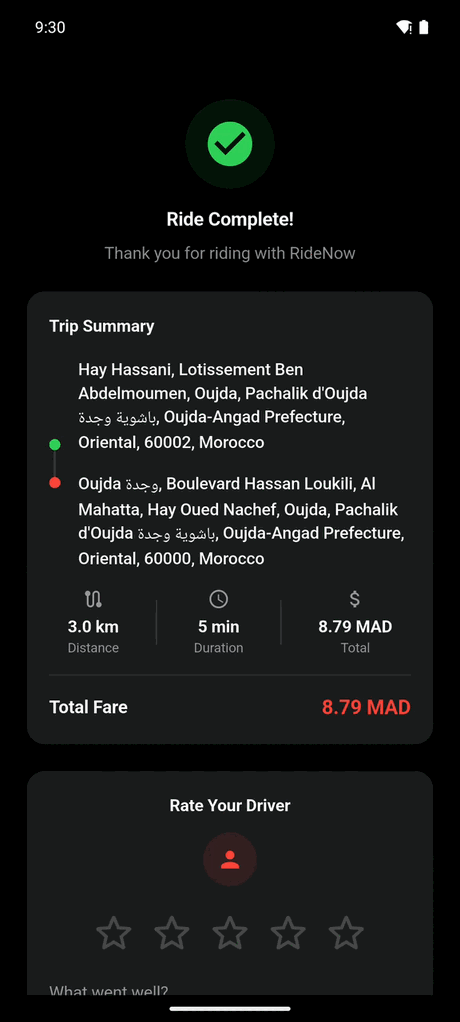
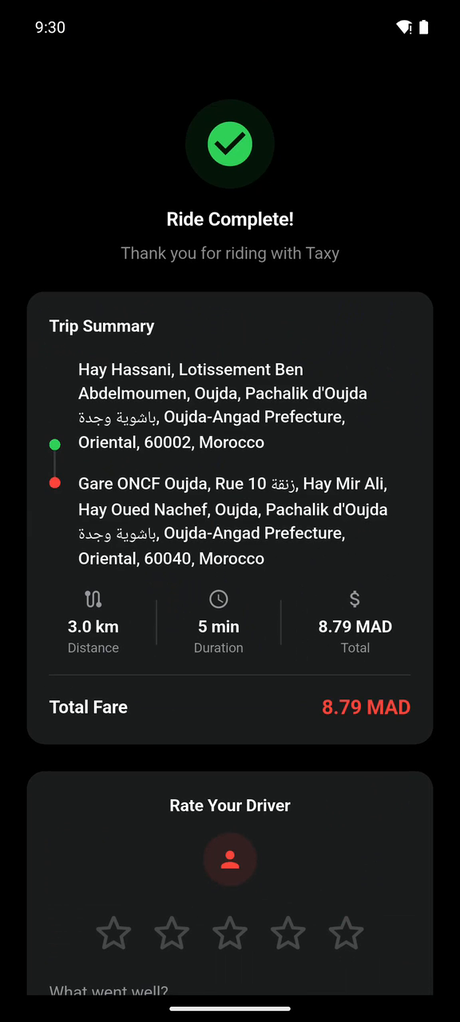
Make the account screens readable, and current
Six phone screenshots across a 600px column left each one about 90px
wide — narrower than the text inside it. They were unreadable at any
distance, nothing said they could be opened, and they could not be:
the strip was six plain <img> tags. Three up over two rows doubles each
to 190px, which is where the headings become legible without clicking,
and every screen now opens full size in the existing modal with arrow
keys, a counter and a caption. Focus returns to the thumbnail that
opened it. Still a grid rather than a scroller, so driver registration
stays on screen instead of behind a sideways drag.

Worth opening now, too. The published images were from before the
rename: the driver form said "start driving with RideNow", the trip
summary in the auto-advancing carousel said "Thank you for riding with
RideNow", and the sign-up phone field hinted +20 — Egypt's dial code —
in a section headed "Ride-hailing built for Morocco". The account
screens were also the only light-appearance shots in an otherwise dark
set. Recaptured from the current build.

The captions claimed fares and distances the screenshots beside them
contradicted: 8.41 and 15.32 MAD against 8.79 and 16.07, 2.9 km against
3.5, a 25-second countdown against 21. Corrected to what is on screen.

Changed region(s): [[0.1522, 0.455, 0.8826, 0.546], [0.2435, 0.2427, 0.7609, 0.273]]

diff --git a/src/components/TaxyExtras.tsx b/src/components/TaxyExtras.tsx
@@ -1,39 +1,60 @@
 "use client";
 
-import { useState } from "react";
+import { useCallback, useEffect, useState } from "react";
 import ModalShell from "./ModalShell";
 
+interface Screen {
+  src: string;
+  alt: string;
+  /** Short label under the thumbnail. */
+  label: string;
+  /** One line shown beside the screen once it is open. */
+  caption: string;
+}
+
 /** Account creation and driver onboarding, shown as a still strip. */
-const SETUP = [
+const SETUP: Screen[] = [
   {
     src: "/products/taxy-acc-signin.png",
-    alt: "Taxy sign-in screen asking for phone number and password",
+    alt: "Taxy sign-in screen asking for a phone number and password",
     label: "Sign in",
+    caption:
+      "Returning riders sign in with their phone number and password — no email required.",
   },
   {
     src: "/products/taxy-acc-phone.png",
-    alt: "Taxy sign-up step one, asking for a phone number",
+    alt: "Taxy sign-up step one, with a +212 Moroccan phone number entered",
     label: "Phone",
+    caption:
+      "Sign-up opens on a Moroccan number — +212, hinted and validated. Step 1 of 6.",
   },
   {
     src: "/products/taxy-acc-terms.png",
-    alt: "Taxy sign-up step five, terms of service and privacy consent",
+    alt: "Taxy sign-up step five, terms of service and privacy consent accepted",
     label: "Consent",
+    caption:
+      "Terms of service and privacy consent, before anything is created. Step 5 of 6.",
   },
   {
     src: "/products/taxy-acc-verify.png",
-    alt: "Taxy sign-up step six, SMS verification code entry",
+    alt: "Taxy sign-up step six, six-digit SMS verification code entry with a resend timer",
     label: "SMS code",
+    caption:
+      "A six-digit code goes to that number, with a resend timer. Step 6 of 6.",
   },
   {
     src: "/products/taxy-acc-menu.png",
-    alt: "Taxy account menu with profile, ride history, payment methods, wallet and switch to driver mode",
+    alt: "Taxy account menu with profile, ride history, payment methods, wallet, settings and switch to driver mode",
     label: "Account",
+    caption:
+      "Profile, ride history, payment methods, wallet, settings — and the switch to driver mode.",
   },
   {
     src: "/products/taxy-acc-driver.png",
-    alt: "Taxy 'Become a Driver' registration form: licence number, documents and background-check consent",
+    alt: "Taxy 'Become a Driver' registration form: licence number and expiry, document uploads and background-check consent",
     label: "Become a driver",
+    caption:
+      "Driver onboarding: licence and expiry, licence and insurance uploads, background-check consent.",
   },
 ];
 
@@ -43,11 +64,51 @@ const SETUP = [
  * or driver — is created in the first place.
  *
  * The setup screens stay out of the rotation on purpose. That rotation tells
- * one story, a ride from request to completion, and eleven auto-advancing
+ * one story, a ride from request to completion, and twelve auto-advancing
  * steps would bury it.
  */
 export default function TaxyExtras() {
   const [videoOpen, setVideoOpen] = useState(false);
+  // Which setup screen is open full size, or null for none.
+  const [shot, setShot] = useState<number | null>(null);
+
+  const step = useCallback(
+    (delta: number) =>
+      setShot((i) =>
+        i === null ? i : (i + delta + SETUP.length) % SETUP.length,
+      ),
+    [],
+  );
+
+  // Arrow keys walk the set. Escape and the backdrop are ModalShell's job.
+  useEffect(() => {
+    if (shot === null) return;
+    const onKey = (e: KeyboardEvent) => {
+      if (e.key === "ArrowRight") {
+        e.preventDefault();
+        step(1);
+      } else if (e.key === "ArrowLeft") {
+        e.preventDefault();
+        step(-1);
+      }
+    };
+    document.addEventListener("keydown", onKey);
+    return () => document.removeEventListener("keydown", onKey);
+  }, [shot, step]);
+
+  // Hand the caret back to the thumbnail that opened the viewer, so tabbing
+  // carries on from where it was rather than restarting at the top of the page.
+  const closeShot = useCallback(() => {
+    const open = shot;
+    setShot(null);
+    if (open !== null) {
+      requestAnimationFrame(() =>
+        document.getElementById(`taxy-setup-${open}`)?.focus(),
+      );
+    }
+  }, [shot]);
+
+  const active = shot === null ? null : SETUP[shot];
 
   return (
     <div className="mt-6 space-y-7">
@@ -78,26 +139,67 @@ export default function TaxyExtras() {
       </button>
 
       <div>
-        <p className="font-mono text-[0.68rem] tracking-[0.18em] text-foreground/35 uppercase">
-          Getting an account — rider or driver
-        </p>
-        {/* A grid, not a scroller: the last screen is driver registration and
-            it has to be on screen without anyone dragging sideways to find
-            it. Three up on a phone, all six once the column is wide. */}
-        <ul className="mt-3 grid grid-cols-3 gap-3 sm:grid-cols-6 sm:gap-2">
-          {SETUP.map((shot) => (
-            <li key={shot.src}>
-              <div className="overflow-hidden rounded-xl border border-card-border bg-card-bg transition-colors duration-300 hover:border-accent/35">
+        <div className="flex flex-col gap-0.5 sm:flex-row sm:items-baseline sm:justify-between sm:gap-4">
+          <p className="font-mono text-[0.68rem] tracking-[0.18em] text-foreground/35 uppercase">
+            Getting an account — rider or driver
+          </p>
+          <p className="shrink-0 text-[0.68rem] text-foreground/30">
+            Tap to enlarge
+          </p>
+        </div>
+
+        {/* Three up, two rows — six across the column made every screen about
+            90px wide, which is narrower than the phone's own text. Three is
+            the point where the headings become readable without opening
+            anything, and a grid keeps driver registration on screen instead
+            of behind a sideways drag. */}
+        <ul className="mt-3 grid grid-cols-3 gap-3 sm:gap-4">
+          {SETUP.map((screen, i) => (
+            <li key={screen.src}>
+              <button
+                id={`taxy-setup-${i}`}
+                type="button"
+                onClick={() => setShot(i)}
+                /* The button's label wins over the image's alt inside it,
+                   so it has to carry the description as well as the verb. */
+                aria-label={`${screen.alt} — enlarge`}
+                className="group/shot relative block w-full cursor-zoom-in overflow-hidden rounded-xl border border-card-border bg-card-bg transition-all duration-300 hover:border-accent/40 hover:shadow-[0_0_24px_rgba(86,172,49,0.07)] focus-visible:border-accent/60 focus-visible:outline-none"
+              >
                 {/* eslint-disable-next-line @next/next/no-img-element */}
                 <img
-                  src={shot.src}
-                  alt={shot.alt}
+                  src={screen.src}
+                  alt={screen.alt}
                   loading="lazy"
+                  decoding="async"
                   className="h-auto w-full"
                 />
-              </div>
-              <p className="mt-1.5 text-center text-[0.65rem] leading-snug text-foreground/40">
-                {shot.label}
+                {/* Zoom affordance — the thumbnails look like decoration
+                    otherwise, and nobody clicks decoration. */}
+                <span
+                  aria-hidden="true"
+                  className="pointer-events-none absolute inset-0 grid place-items-center bg-background/55 opacity-0 backdrop-blur-[1px] transition-opacity duration-300 group-hover/shot:opacity-100 group-focus-visible/shot:opacity-100"
+                >
+                  <span className="grid h-8 w-8 place-items-center rounded-full border border-accent/40 bg-background/80 text-accent">
+                    <svg
+                      width="14"
+                      height="14"
+                      viewBox="0 0 24 24"
+                      fill="none"
+                      stroke="currentColor"
+                      strokeWidth="2"
+                      strokeLinecap="round"
+                      strokeLinejoin="round"
+                    >
+                      <circle cx="11" cy="11" r="7" />
+                      <line x1="16.5" y1="16.5" x2="21" y2="21" />
+                      <line x1="11" y1="8" x2="11" y2="14" />
+                      <line x1="8" y1="11" x2="14" y2="11" />
+                    </svg>
+                  </span>
+                </span>
+              </button>
+              <p className="mt-2 text-center text-[0.7rem] leading-snug text-foreground/55">
+                {screen.label}
               </p>
             </li>
           ))}
@@ -128,6 +230,66 @@ export default function TaxyExtras() {
           pickup, trip, completion. The maps are vector tiles and the routes
           come from OSRM, both served from the same machine as the backend.
         </p>
+      </ModalShell>
+
+      {/* One screen, full size, with the rest a keypress away. */}
+      <ModalShell
+        open={active !== null}
+        onClose={closeShot}
+        label="Taxy account setup screens"
+        /* Hug the screen rather than box it: the image is capped at 68vh, so
+           on a short window a fixed-width panel leaves a wide black margin
+           either side of a narrow phone. 0.45 is the screenshots' aspect. */
+        panelClassName="max-w-[min(24rem,calc(68vh*0.45+2rem))]"
+      >
+        {active && (
+          <>
+            <div className="flex justify-center bg-black px-4 pt-4 pb-2">
+              {/* eslint-disable-next-line @next/next/no-img-element */}
+              <img
+                src={active.src}
+                alt={active.alt}
+                className="max-h-[68vh] w-auto rounded-xl"
+              />
+            </div>
+            <div className="border-t border-card-border px-5 py-4">
+              <div className="flex items-center justify-between gap-3">
+                <p className="text-sm font-semibold">{active.label}</p>
+                <div className="flex shrink-0 items-center gap-1">
+                  <button
+                    type="button"
+                    onClick={() => step(-1)}
+                    aria-label="Previous screen"
+                    className="grid h-8 w-8 place-items-center rounded-full border border-card-border text-foreground/70 transition-colors hover:border-accent/40 hover:text-accent"
+                  >
+                    <svg width="15" height="15" viewBox="0 0 24 24" fill="none" stroke="currentColor" strokeWidth="2" strokeLinecap="round" strokeLinejoin="round" aria-hidden="true">
+                      <polyline points="15 18 9 12 15 6" />
+                    </svg>
+                  </button>
+                  <span className="w-10 text-center font-mono text-[0.7rem] text-foreground/40">
+                    {(shot ?? 0) + 1}/{SETUP.length}
+                  </span>
+                  <button
+                    type="button"
+                    onClick={() => step(1)}
+                    aria-label="Next screen"
+                    className="grid h-8 w-8 place-items-center rounded-full border border-card-border text-foreground/70 transition-colors hover:border-accent/40 hover:text-accent"
+                  >
+                    <svg width="15" height="15" viewBox="0 0 24 24" fill="none" stroke="currentColor" strokeWidth="2" strokeLinecap="round" strokeLinejoin="round" aria-hidden="true">
+                      <polyline points="9 18 15 12 9 6" />
+                    </svg>
+                  </button>
+                </div>
+              </div>
+              <p
+                aria-live="polite"
+                className="mt-1.5 text-xs leading-relaxed text-foreground/50"
+              >
+                {active.caption}
+              </p>
+            </div>
+          </>
+        )}
       </ModalShell>
     </div>
   );

diff --git a/src/components/TaxyShowcase.tsx b/src/components/TaxyShowcase.tsx
@@ -32,7 +32,7 @@ const STEPS: Step[] = [
     alt: "Taxy ride selection showing Petit Taxi and VIP fares over a road-following route",
     label: "Choose a ride",
     caption:
-      "Pick your ride — metered Petit Taxi at 8.41 MAD, or VIP at 15.32 MAD.",
+      "Pick your ride — metered Petit Taxi at 8.79 MAD, or VIP at 16.07 MAD.",
     driver: "online",
   },
   {
@@ -57,7 +57,7 @@ const STEPS: Step[] = [
     alt: "Taxy ride in progress with ETA, distance and fare over the driving route",
     label: "In progress",
     caption:
-      "Ride in progress — 5 min and 2.9 km along the OSRM road-following route.",
+      "Ride in progress — 7 min and 3.5 km along the OSRM road-following route.",
     driver: "trip",
   },
   {
@@ -65,7 +65,7 @@ const STEPS: Step[] = [
     ms: 2800,
     alt: "Taxy trip summary showing distance, duration and total fare",
     label: "Complete",
-    caption: "Trip summary — 2.7 km, 5 min, 8.41 MAD, then rate the driver.",
+    caption: "Trip summary — 3.0 km, 5 min, 8.79 MAD, then rate the driver.",
     driver: "online",
   },
 ];
@@ -78,12 +78,12 @@ const DRIVER_FRAMES: Record<DriverState, { src: string; alt: string; label: stri
   },
   request: {
     src: "/products/taxy-drv-request.png",
-    alt: "Taxy driver app: new ride request for 8.41 MAD with a 25-second countdown, decline or accept",
-    label: "New request · 25s",
+    alt: "Taxy driver app: new ride request for MAD 8.79 with a 21-second countdown, decline or accept",
+    label: "New request · 21s",
   },
   pickup: {
     src: "/products/taxy-drv-pickup.png",
-    alt: "Taxy driver app: heading to pickup with a 00:20 timer and an 'Arrived at Pickup' action",
+    alt: "Taxy driver app: heading to pickup with an elapsed timer and an 'Arrived at Pickup' action",
     label: "Heading to pickup",
   },
   trip: {
